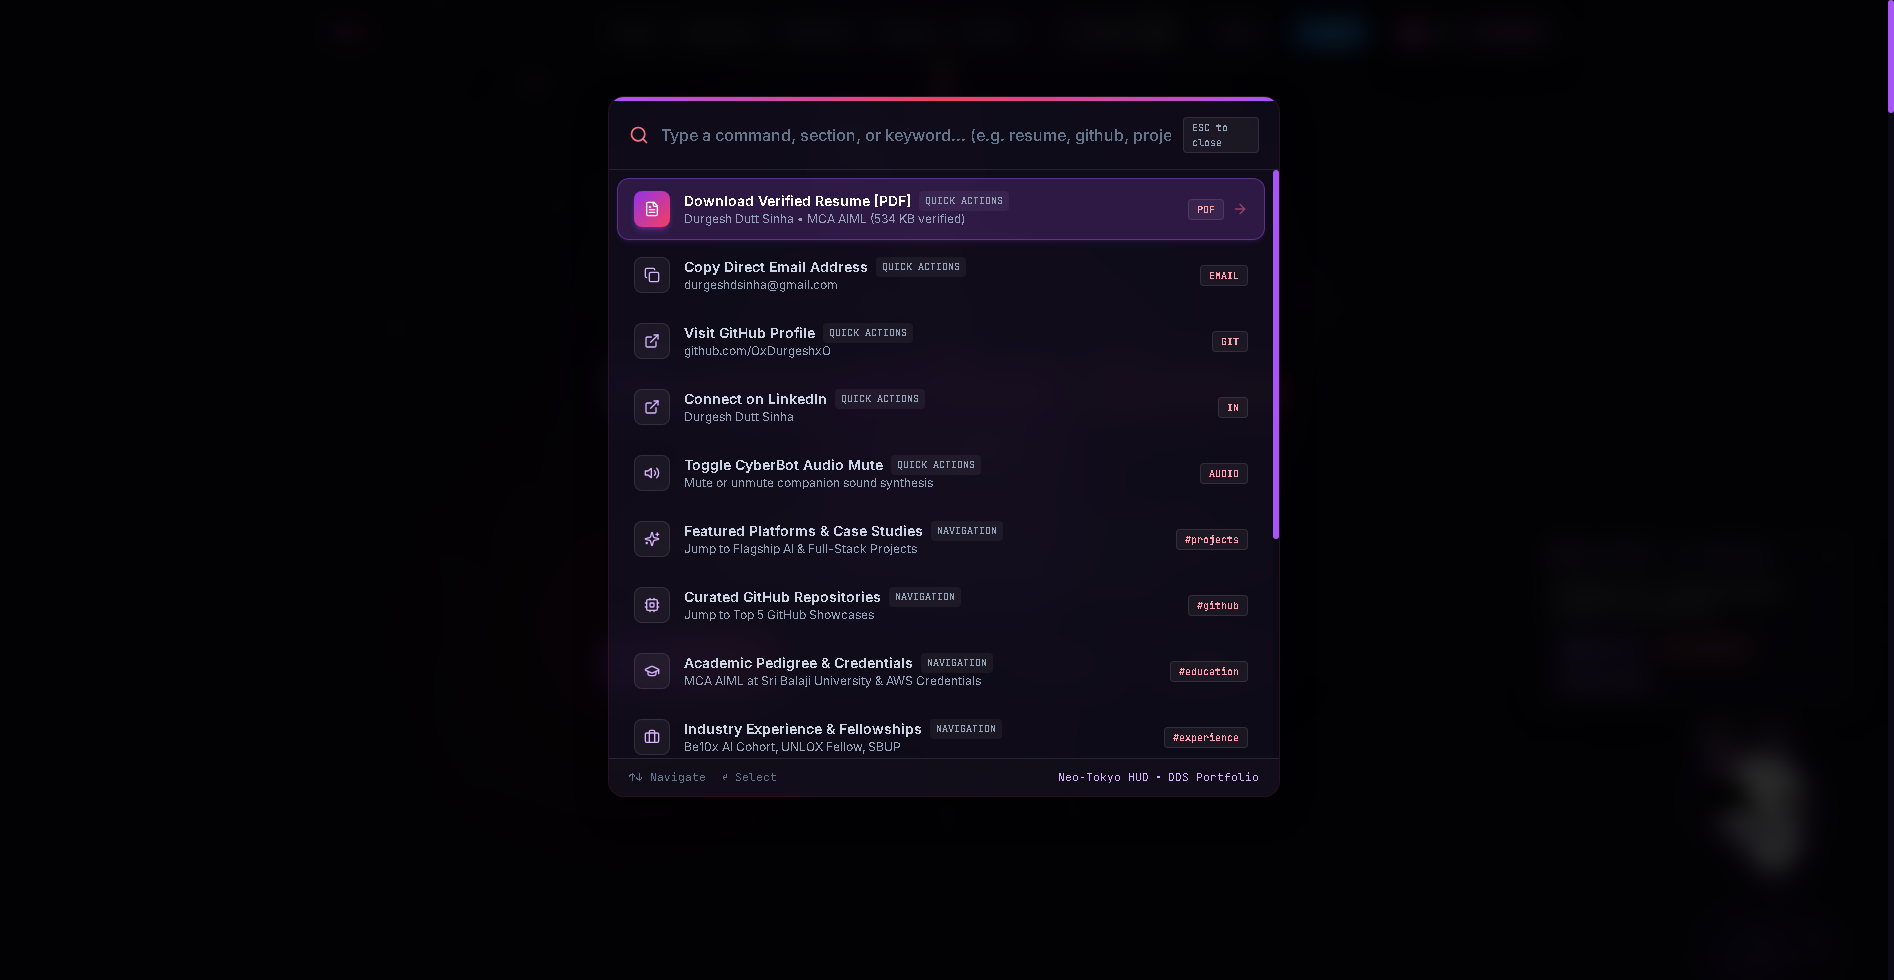
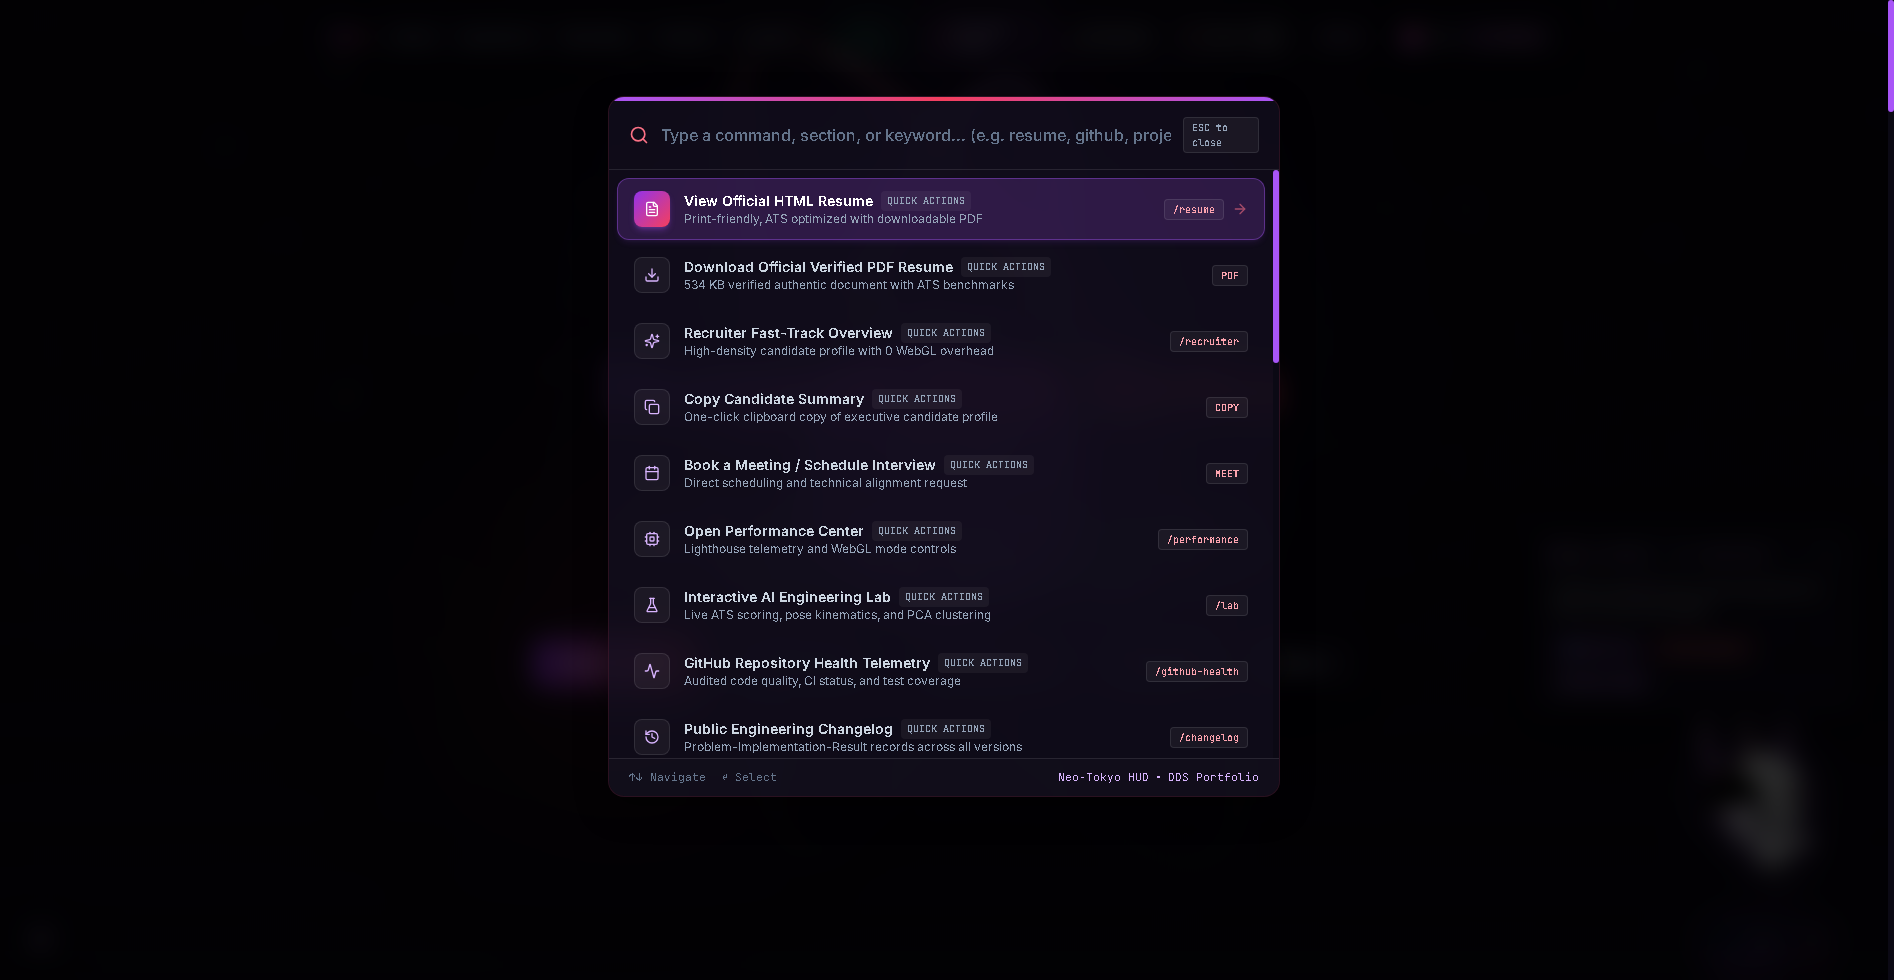
fix(hero): align SSR hero loading skeleton with active resume CTAs and update live preview assets

diff --git a/app/page.tsx b/app/page.tsx
@@ -25,22 +25,29 @@ const HeroSection = dynamic(() => import('@/components/sections/HeroSection'), {
         <p className="text-xl md:text-2xl text-slate-300 mb-8 font-mono">
           AIML Engineer &amp; Full-Stack Developer
         </p>
-        <div className="flex flex-wrap gap-4 justify-center">
+        <div className="flex flex-wrap gap-3.5 justify-center items-center">
           <a
             href="#projects"
-            className="px-8 py-3 rounded-xl bg-gradient-to-r from-purple-600 to-rose-500 text-white font-semibold"
+            className="px-7 py-3 rounded-xl bg-gradient-to-r from-purple-600 to-rose-500 text-white font-semibold shadow-lg shadow-purple-500/20 text-sm sm:text-base"
           >
             View Projects
           </a>
-          <div
-            className="px-6 sm:px-8 py-3 rounded-xl glass border border-rose-500/30 text-rose-300/80 font-semibold inline-flex items-center gap-2 opacity-85 cursor-not-allowed"
+          <a
+            href="/resume"
+            className="px-6 py-3 rounded-xl glass border border-purple-500/40 text-purple-200 font-semibold inline-flex items-center gap-2 shadow-lg shadow-purple-500/10 text-sm sm:text-base"
           >
-            <span>Resume</span>
-            <span className="text-[10px] font-mono bg-purple-500/20 text-rose-300 px-2 py-0.5 rounded-full border border-purple-500/30 uppercase tracking-wider font-bold">Upcoming</span>
-          </div>
+            View Resume
+          </a>
+          <a
+            href="/resume.pdf"
+            download="Durgesh_Dutt_Sinha_Resume.pdf"
+            className="px-5 py-3 rounded-xl glass border border-rose-500/30 text-rose-300 font-semibold inline-flex items-center gap-1.5 shadow-md shadow-rose-500/10 text-sm sm:text-base"
+          >
+            Download PDF
+          </a>
           <a
             href="#contact"
-            className="px-8 py-3 rounded-xl glass border border-purple-500/40 text-purple-300 font-semibold"
+            className="px-6 py-3 rounded-xl glass border border-slate-700 text-slate-300 font-semibold text-sm sm:text-base"
           >
             Contact Me
           </a>
